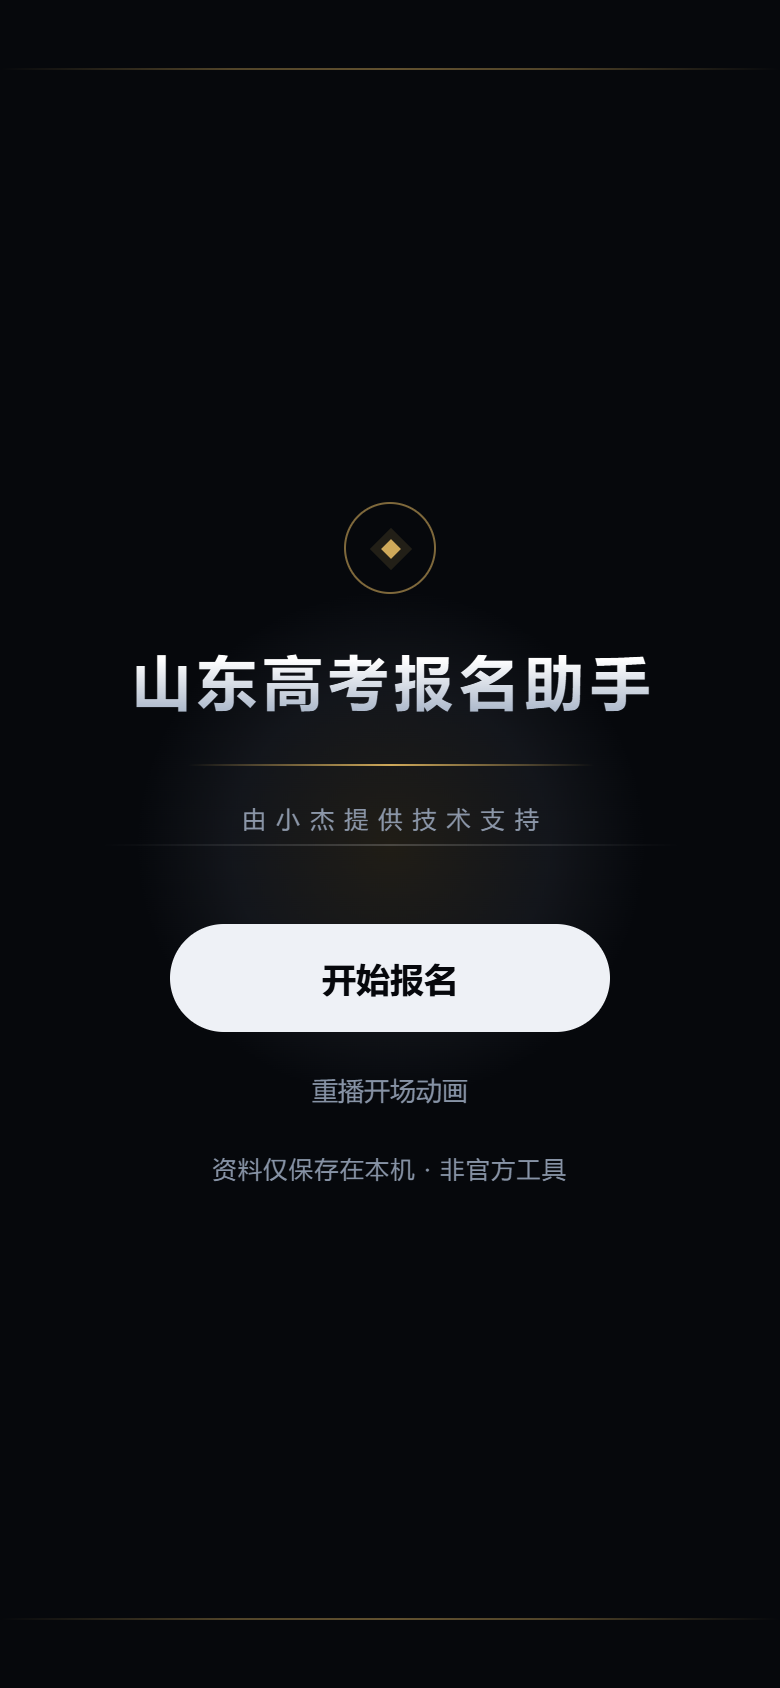
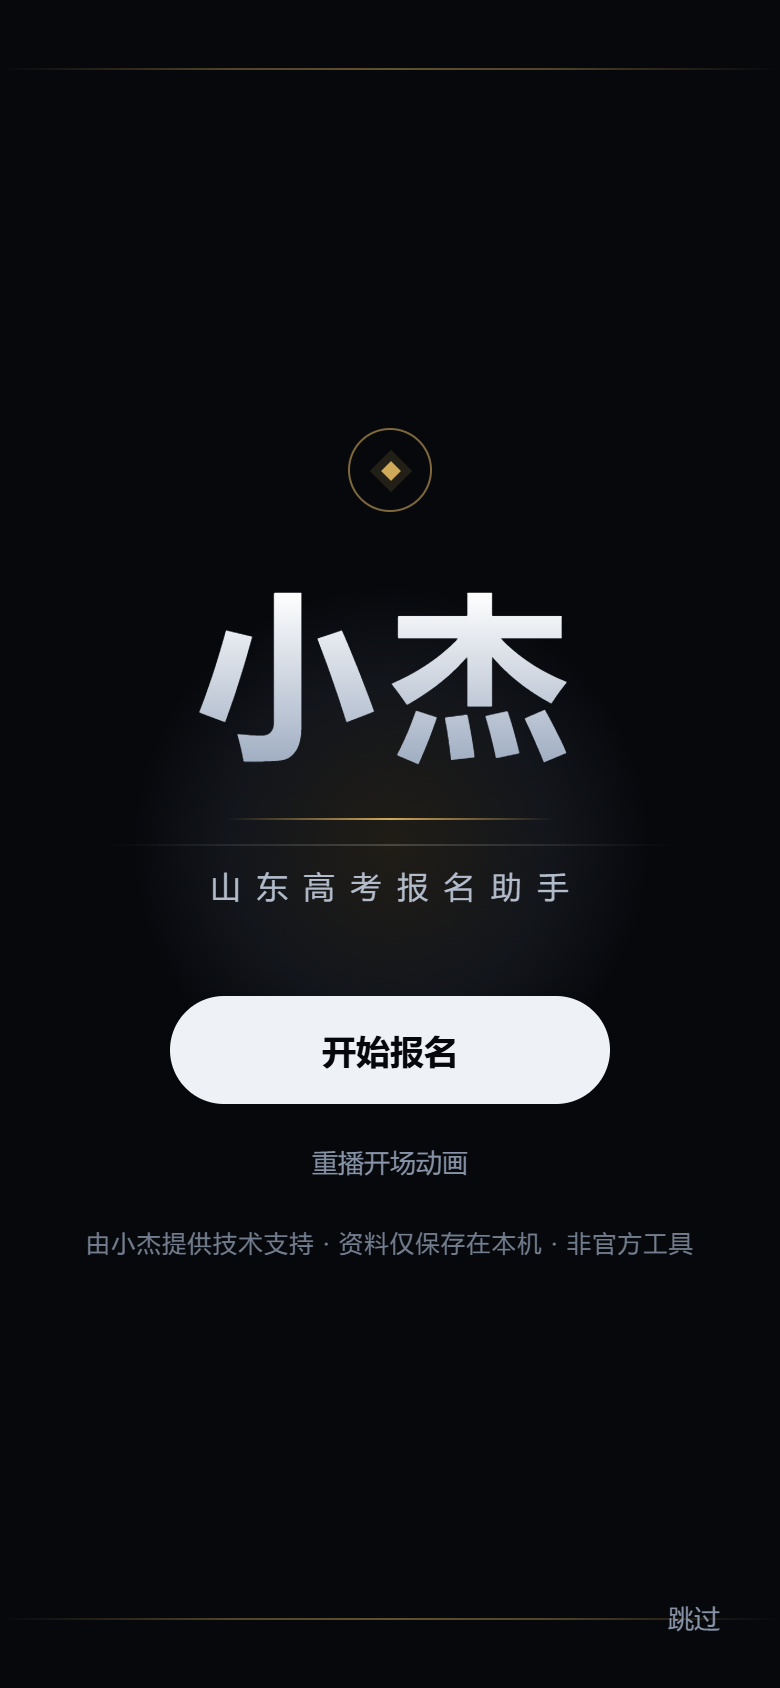
开场动画 V5（聚焦→展开编排，按用户源码升级）：「杰」单字居中·模糊聚焦登场 → 展开成「小杰」大字（clamp 72-150px 银白金属字）→ 副标题 clip-path 揭幕 + overlay 鎏金扫光；文案改为主标题=小杰/副标题=山东高考报名助手/底注=技术支持+本机+非官方；保留金印徽记/鎏金界线/呼吸循环；E2E 47/47，实测转场 60fps

diff --git a/index.html b/index.html
@@ -313,17 +313,18 @@ body.xj-lock{overflow:hidden}
 .xj-glow{position:absolute;left:50%;top:50%;width:90vmin;height:90vmin;margin:-45vmin 0 0 -45vmin;border-radius:50%;background:radial-gradient(closest-side,rgba(207,169,90,.13),rgba(148,158,178,.09) 45%,rgba(148,158,178,0) 72%);opacity:0;will-change:opacity;pointer-events:none}
 .xj-light{position:absolute;left:50%;top:50%;width:min(74vw,470px);height:1px;margin-left:calc(min(74vw,470px) / -2);background:linear-gradient(90deg,transparent,rgba(255,255,255,.85),transparent);opacity:0;will-change:transform,opacity;pointer-events:none}
 /* V3：权威元素 —— 金印徽记 / 上下鎏金界线 / 标题扫光 */
-.xj-crest{width:46px;height:46px;margin-bottom:26px;border:1px solid rgba(207,169,90,.6);border-radius:50%;display:grid;place-items:center;opacity:0;will-change:transform,opacity;pointer-events:none}
+.xj-crest{width:42px;height:42px;margin-bottom:30px;border:1px solid rgba(207,169,90,.6);border-radius:50%;display:grid;place-items:center;opacity:0;will-change:transform,opacity;pointer-events:none}
 .xj-crest i{display:block;width:7px;height:7px;background:var(--xj-gold);transform:rotate(45deg);box-shadow:0 0 0 4px rgba(207,169,90,.14)}
 .xj-beam{position:absolute;left:0;right:0;height:1px;background:linear-gradient(90deg,transparent,rgba(207,169,90,.75) 30%,rgba(207,169,90,.9) 50%,rgba(207,169,90,.75) 70%,transparent);transform:scaleX(0);opacity:0;will-change:transform,opacity;pointer-events:none}
 .xj-beam.t{top:calc(env(safe-area-inset-top,0px) + 34px)}
 .xj-beam.b{bottom:calc(env(safe-area-inset-bottom,0px) + 34px)}
 .xj-lockup{position:relative;display:flex;flex-direction:column;align-items:center;padding:0 20px;max-width:100vw}
-.xj-title{position:relative;display:flex;justify-content:center;font-size:clamp(26px,7.5vw,60px);font-weight:800;line-height:1.25;letter-spacing:.12em;margin:0;opacity:0;transform-origin:50% 50%;overflow:hidden;will-change:transform,opacity}
-.xj-sheen{position:absolute;top:-20%;left:0;width:42%;height:140%;background:linear-gradient(105deg,transparent 20%,rgba(255,255,255,.5) 46%,rgba(207,169,90,.38) 54%,transparent 80%);transform:translateX(-170%) skewX(-14deg);opacity:0;will-change:transform,opacity;pointer-events:none}
-.xj-title span{color:transparent;background:linear-gradient(180deg,#fff 18%,#9fadc2 100%);-webkit-background-clip:text;background-clip:text;margin-right:-.12em}
-.xj-rule{width:min(52vw,230px);height:1px;margin:22px 0 18px;background:linear-gradient(90deg,transparent,var(--xj-gold),transparent);transform:scaleX(0);opacity:0;will-change:transform,opacity}
-.xj-sub{font-size:clamp(12px,2vw,15px);font-weight:500;letter-spacing:.42em;margin-right:-.42em;color:#8b96a8;opacity:0;will-change:transform,opacity}
+.xj-title{position:relative;display:flex;font-size:clamp(72px,23vw,150px);font-weight:800;line-height:1.08;letter-spacing:.08em;margin:0}
+.xj-g{display:block;opacity:0;color:transparent;background:linear-gradient(180deg,#fff 10%,#9fadc2 100%);-webkit-background-clip:text;background-clip:text;will-change:transform,opacity,filter}
+.xj-sheen{position:absolute;inset:0;overflow:hidden;pointer-events:none}
+.xj-bar{position:absolute;top:-10%;bottom:-10%;left:0;width:34%;opacity:0;background:linear-gradient(100deg,transparent,rgba(255,255,255,.9),transparent);mix-blend-mode:overlay;will-change:transform,opacity}
+.xj-rule{width:min(42vw,190px);height:1px;margin:26px 0 22px;background:linear-gradient(90deg,transparent,var(--xj-gold),transparent);transform:scaleX(0);opacity:0;will-change:transform,opacity}
+.xj-sub{font-size:clamp(14px,4vw,18px);font-weight:500;letter-spacing:.5em;margin-right:-.5em;color:#b2bccb;opacity:0;clip-path:inset(0 50% 0 50%);will-change:transform,opacity}
 .xj-cta{margin-top:44px;display:flex;flex-direction:column;align-items:center;gap:12px;opacity:0;will-change:transform,opacity}
 .xj-btn{display:inline-flex;align-items:center;justify-content:center;height:54px;min-width:220px;padding:0 38px;border:0;border-radius:27px;background:var(--xj-bone);color:var(--xj-ink);font-size:17px;font-weight:600;font-family:inherit;text-decoration:none;cursor:pointer;transition:transform .18s cubic-bezier(.2,.8,.2,1);-webkit-tap-highlight-color:transparent}
 .xj-btn:active{transform:scale(.96)}
@@ -341,8 +342,8 @@ body.xj-lock{overflow:hidden}
 </head>
 <body>
 
-<!-- 开场动画 V2（权威感升级）：山东高考报名助手 · 由小杰提供技术支持（全部类名 xj- 前缀；「开始报名」= 进入主界面） -->
-<div class="xj-splash" id="xjSplash" role="dialog" aria-label="山东高考报名助手 · 由小杰提供技术支持">
+<!-- 开场动画 V5（聚焦→展开编排）：「杰」单字居中带模糊聚焦登场 → 展开成「小杰」→ 副标题揭幕（全部类名 xj- 前缀；「开始报名」= 进入主界面） -->
+<div class="xj-splash" id="xjSplash" role="dialog" aria-label="小杰 · 山东高考报名助手 · 由小杰提供技术支持">
   <main class="xj-stage">
     <div class="xj-glow"></div>
     <div class="xj-light"></div>
@@ -350,14 +351,14 @@ body.xj-lock{overflow:hidden}
     <div class="xj-beam b" aria-hidden="true"></div>
     <div class="xj-lockup">
       <div class="xj-crest" aria-hidden="true"><i></i></div>
-      <h1 class="xj-title" aria-label="山东高考报名助手"><span aria-hidden="true">山东高考报名助手</span><span class="xj-sheen" aria-hidden="true"></span></h1>
+      <h1 class="xj-title" aria-label="小杰"><span class="xj-g xj-g1" aria-hidden="true">小</span><span class="xj-g xj-g2" aria-hidden="true">杰</span><span class="xj-sheen" aria-hidden="true"><span class="xj-bar"></span></span></h1>
       <div class="xj-rule"></div>
-      <div class="xj-sub">由小杰提供技术支持</div>
+      <div class="xj-sub">山东高考报名助手</div>
       <div class="xj-cta">
         <button class="xj-btn" id="xjEnter" type="button">开始报名</button>
         <button class="xj-link xj-replay" type="button">重播开场动画</button>
       </div>
-      <div class="xj-note">资料仅保存在本机 · 非官方工具</div>
+      <div class="xj-note">由小杰提供技术支持 · 资料仅保存在本机 · 非官方工具</div>
     </div>
   </main>
   <button class="xj-link xj-skip" type="button">跳过</button>
@@ -368,13 +369,15 @@ body.xj-lock{overflow:hidden}
   var q = function (s) { return document.querySelector(s); };
   var splash = q('#xjSplash');
   if (!splash) return;
-  var glow = q('.xj-glow'), light = q('.xj-light'), title = q('.xj-title'), rule = q('.xj-rule'),
+  var glow = q('.xj-glow'), light = q('.xj-light'), rule = q('.xj-rule'),
       sub = q('.xj-sub'), cta = q('.xj-cta'), note = q('.xj-note'), skip = q('.xj-skip'),
       enter = q('#xjEnter'), replay = q('.xj-replay'),
-      crest = q('.xj-crest'), sheen = q('.xj-sheen'), beamT = q('.xj-beam.t'), beamB = q('.xj-beam.b');
+      crest = q('.xj-crest'), g1 = q('.xj-g1'), g2 = q('.xj-g2'), bar = q('.xj-bar'),
+      beamT = q('.xj-beam.t'), beamB = q('.xj-beam.b');
   var KEY = 'xj-splash-seen';
   var reduce = matchMedia('(prefers-reduced-motion: reduce)').matches;
   var E1 = 'cubic-bezier(.16,1,.3,1)';
+  var E2 = 'cubic-bezier(.22,1,.36,1)';
   var anims = [];
 
   function lock(on) { document.body.classList[on ? 'add' : 'remove']('xj-lock'); }
@@ -405,25 +408,30 @@ body.xj-lock{overflow:hidden}
     anims.forEach(function (x) { try { x.cancel(); } catch (e) {} }); anims = [];
     skip.style.display = '';
     if (reduce) {
-      [glow, light, title, sub, cta, note, crest].forEach(function (el) { a(el, [{ opacity: 0 }, { opacity: 1 }], { duration: 300 }); });
+      [glow, g1, g2, sub, cta, note, crest].forEach(function (el) { a(el, [{ opacity: 0 }, { opacity: 1 }], { duration: 400 }); });
       [rule, light, beamT, beamB].forEach(function (el) { a(el, [{ opacity: .8, transform: 'scaleX(1)' }], { duration: 1 }); });
-      a(sheen, [{ opacity: 0 }], { duration: 1 });
+      a(sub, [{ opacity: 1, clipPath: 'inset(0 0 0 0)' }], { duration: 1 });
+      a(bar, [{ opacity: 0 }], { duration: 1 });
       skip.style.display = 'none'; return;
     }
-    /* 权威电动节奏 V4（iOS 级联瀑布式，有限动画总时长约 2.7s）：
-       Apple 流畅感要诀 = 元素错峰并行启动、绝不排队等上一幕走完；临界阻尼缓动（无回弹）显快且稳。
-       界线/光晕(0s) → 徽记(0.35s) → 标题(0.6s) → 扫光/金线(1.3s) → 副标题(1.65s) → CTA(1.95s) → 底注(2.15s)；
-       光晕与 CTA 之后进入极缓呼吸循环（仅 transform，合成器，不掉帧） */
+    /* V5 聚焦→展开编排（有限动画总时长约 3.8s，冲击力优先）：
+       界线/光晕(0s) → 「杰」单字居中·模糊聚焦登场(0.25s) → 徽记(0.35s) → 「杰」滑向左位+「小」从中心浮现(1.4s)
+       → 金线(2.1s) → 副标题揭幕+鎏金扫光(2.3s) → CTA(3.05s) → 底注(3.25s)；光晕与 CTA 呼吸循环（仅 transform） */
+    /* 测量最终位置：让「杰」先居中单独出现，再展开成「小杰」 */
+    var r1 = g1.getBoundingClientRect(), r2 = g2.getBoundingClientRect();
+    var cx = (r1.left + r2.right) / 2;
+    var d2 = cx - (r2.left + r2.width / 2);   /* 杰 → 屏幕中心 */
+    var d1 = cx - (r1.left + r1.width / 2);   /* 小 → 屏幕中心（藏在杰后面） */
     a(beamT, [
       { opacity: 0, transform: 'scaleX(0)' },
       { opacity: .9, transform: 'scaleX(1)', offset: .7 },
       { opacity: .5, transform: 'scaleX(1)' }
-    ], { duration: 1100, easing: 'ease-out' });
+    ], { duration: 900, easing: 'ease-out' });
     a(beamB, [
       { opacity: 0, transform: 'scaleX(0)' },
       { opacity: .9, transform: 'scaleX(1)', offset: .7 },
       { opacity: .5, transform: 'scaleX(1)' }
-    ], { duration: 1100, delay: 120, easing: 'ease-out' });
+    ], { duration: 900, delay: 120, easing: 'ease-out' });
     a(glow, [{ opacity: 0 }, { opacity: 1 }], { duration: 1600, easing: 'ease-out' });
     a(glow, [{ transform: 'scale(1)' }, { transform: 'scale(1.05)' }, { transform: 'scale(1)' }],
       { duration: 6000, delay: 1600, iterations: Infinity, easing: 'ease-in-out' });
@@ -431,26 +439,34 @@ body.xj-lock{overflow:hidden}
       { opacity: 0, transform: 'scaleX(0)' },
       { opacity: .95, transform: 'scaleX(1)', offset: .35 },
       { opacity: .22, transform: 'scaleX(1)' }
-    ], { duration: 1400, delay: 150, easing: 'ease-out' });
+    ], { duration: 1300, delay: 150, easing: 'ease-out' });
+    a(g2, [
+      { opacity: 0, transform: 'translateX(' + d2 + 'px) scale(1.14)', filter: 'blur(14px)' },
+      { opacity: 1, transform: 'translateX(' + d2 + 'px) scale(1)', filter: 'blur(0px)' }
+    ], { duration: 900, delay: 250, easing: E1 });
     a(crest, [
       { opacity: 0, transform: 'scale(.5) rotate(-24deg)' },
       { opacity: 1, transform: 'scale(1) rotate(0deg)' }
-    ], { duration: 650, delay: 350, easing: E1 });
-    a(title, [
-      { opacity: 0, transform: 'scaleY(.04) scaleX(1.03)' },
-      { opacity: 1, transform: 'scaleY(1) scaleX(1)' }
-    ], { duration: 850, delay: 600, easing: E1 });
-    a(sheen, [
-      { opacity: 0, transform: 'translateX(-170%) skewX(-14deg)' },
-      { opacity: .9, transform: 'translateX(20%) skewX(-14deg)', offset: .45 },
-      { opacity: 0, transform: 'translateX(190%) skewX(-14deg)' }
-    ], { duration: 700, delay: 1300, easing: 'cubic-bezier(.4,0,.2,1)' });
-    a(rule, [{ opacity: 0, transform: 'scaleX(0)' }, { opacity: 1, transform: 'scaleX(1)' }], { duration: 650, delay: 1400, easing: E1 });
-    a(sub, [{ opacity: 0, transform: 'translateY(8px)' }, { opacity: 1, transform: 'translateY(0)' }], { duration: 600, delay: 1650, easing: E1 });
-    var last = a(cta, [{ opacity: 0, transform: 'translateY(12px)' }, { opacity: 1, transform: 'translateY(0)' }], { duration: 650, delay: 1950, easing: E1 });
+    ], { duration: 650, delay: 400, easing: E1 });
+    a(g2, [{ transform: 'translateX(' + d2 + 'px)' }, { transform: 'translateX(0)' }], { duration: 1000, delay: 1400, easing: E2 });
+    a(g1, [
+      { opacity: 0, transform: 'translateX(' + d1 + 'px)' },
+      { opacity: 1, transform: 'translateX(0)' }
+    ], { duration: 1000, delay: 1400, easing: E2 });
+    a(rule, [{ opacity: 0, transform: 'scaleX(0)' }, { opacity: 1, transform: 'scaleX(1)' }], { duration: 700, delay: 2100, easing: E1 });
+    a(sub, [
+      { opacity: 0, clipPath: 'inset(0 50% 0 50%)', transform: 'translateY(6px)' },
+      { opacity: 1, clipPath: 'inset(0 0 0 0)', transform: 'translateY(0)' }
+    ], { duration: 900, delay: 2300, easing: E1 });
+    a(bar, [
+      { opacity: 0, transform: 'translateX(-120%)' },
+      { opacity: 1, offset: .5 },
+      { opacity: 0, transform: 'translateX(320%)' }
+    ], { duration: 1200, delay: 2350, easing: 'ease-in-out' });
+    var last = a(cta, [{ opacity: 0, transform: 'translateY(12px)' }, { opacity: 1, transform: 'translateY(0)' }], { duration: 650, delay: 3050, easing: E1 });
     a(cta, [{ transform: 'scale(1)' }, { transform: 'scale(1.014)' }, { transform: 'scale(1)' }],
-      { duration: 5000, delay: 2650, iterations: Infinity, easing: 'ease-in-out' });
-    a(note, [{ opacity: 0 }, { opacity: 1 }], { duration: 550, delay: 2150, easing: 'ease-out' });
+      { duration: 5000, delay: 3750, iterations: Infinity, easing: 'ease-in-out' });
+    a(note, [{ opacity: 0 }, { opacity: 1 }], { duration: 550, delay: 3250, easing: 'ease-out' });
     last.finished.then(function () { skip.style.display = 'none'; }).catch(function () {});
   }
 

diff --git a/test/e2e.js b/test/e2e.js
@@ -64,10 +64,12 @@ function computeCheck(first17) {
       if (maxEnd > 4000) throw new Error('总时长 ' + Math.round(maxEnd) + 'ms 超出 4s');
     });
   });
-  await t('文案权威且诚实：副标题含技术支持方、底注含「非官方」，无「官方指定/授权」类违规字样', () => {
+  await t('文案权威且诚实：主标题为「小杰」、副标题为项目名、底注含技术支持方与「非官方」，无「官方指定/授权」类违规字样', () => {
     return page.evaluate(() => {
       const s = document.getElementById('xjSplash');
-      if (document.querySelector('.xj-sub').textContent.indexOf('小杰') < 0) throw new Error('副标题缺少技术支持方');
+      if (document.querySelector('.xj-title').getAttribute('aria-label').indexOf('小杰') < 0) throw new Error('主标题缺少「小杰」');
+      if (document.querySelector('.xj-sub').textContent.indexOf('山东高考报名助手') < 0) throw new Error('副标题缺少项目名');
+      if (document.querySelector('.xj-note').textContent.indexOf('小杰') < 0) throw new Error('底注缺少技术支持方');
       if (document.querySelector('.xj-note').textContent.indexOf('非官方') < 0) throw new Error('底注缺少非官方声明');
       if (/官方指定|授权|教育厅指定/.test(s.textContent)) throw new Error('出现官方感违规文案');
     });

diff --git a/test/perf-v3.js b/test/perf-v3.js
@@ -10,7 +10,7 @@ const BASE = 'http://127.0.0.1:8971';
   await p1.evaluate(() => {
     window.__frames = 0; window.__long = 0; window.__t0 = performance.now(); window.__last = 0;
     const loop = (t) => { window.__frames++; if (window.__last && t - window.__last > 32) window.__long++; window.__last = t;
-      if (performance.now() - window.__t0 < 3300) requestAnimationFrame(loop); };
+      if (performance.now() - window.__t0 < 4200) requestAnimationFrame(loop); };
     requestAnimationFrame(loop);
   });
   await p1.waitForTimeout(3400);
@@ -31,7 +31,7 @@ const BASE = 'http://127.0.0.1:8971';
   /* 第二轮：全新会话截图关键帧 */
   const p2 = await browser.newPage({ viewport: { width: 390, height: 844 }, deviceScaleFactor: 2 });
   await p2.goto(BASE + '/', { waitUntil: 'domcontentloaded' });
-  const shots = [[500, 'v3-beams'], [900, 'v3-crest-title'], [1500, 'v3-sheen'], [2100, 'v3-sub'], [3000, 'v3-cta']];
+  const shots = [[800, 'v3-beams'], [1100, 'v3-crest-title'], [1900, 'v3-sheen'], [2900, 'v3-sub'], [3950, 'v3-cta']];
   let prev = 0;
   for (const [ms, name] of shots) {
     await p2.waitForTimeout(ms - prev); prev = ms;
